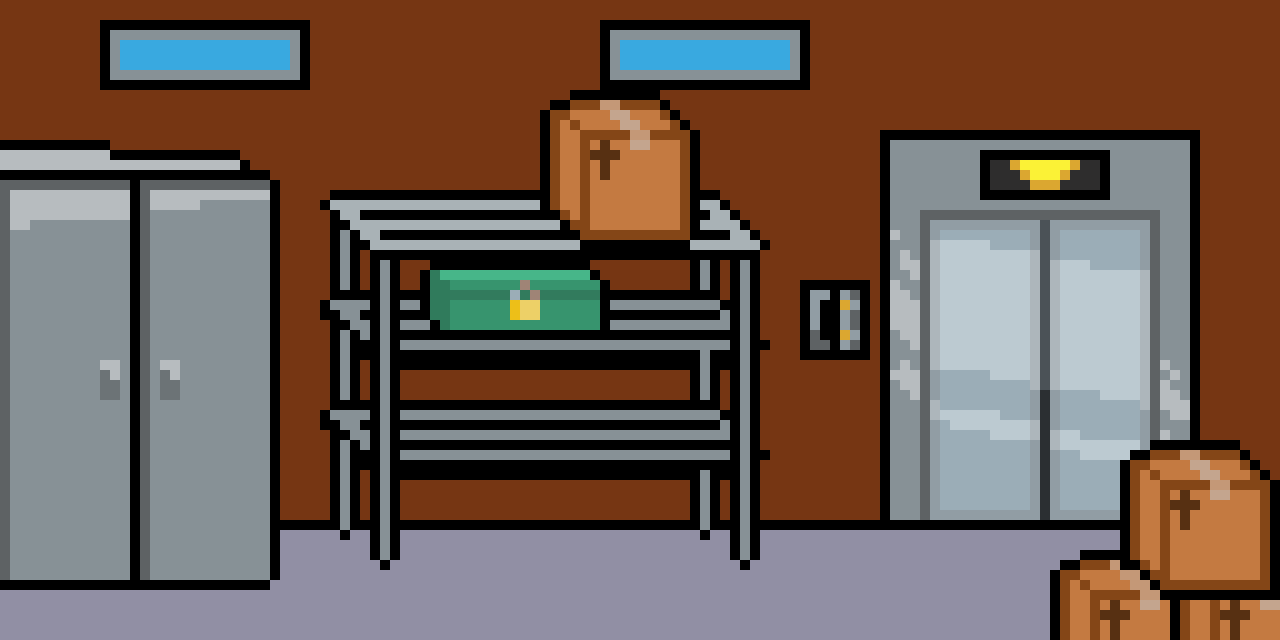
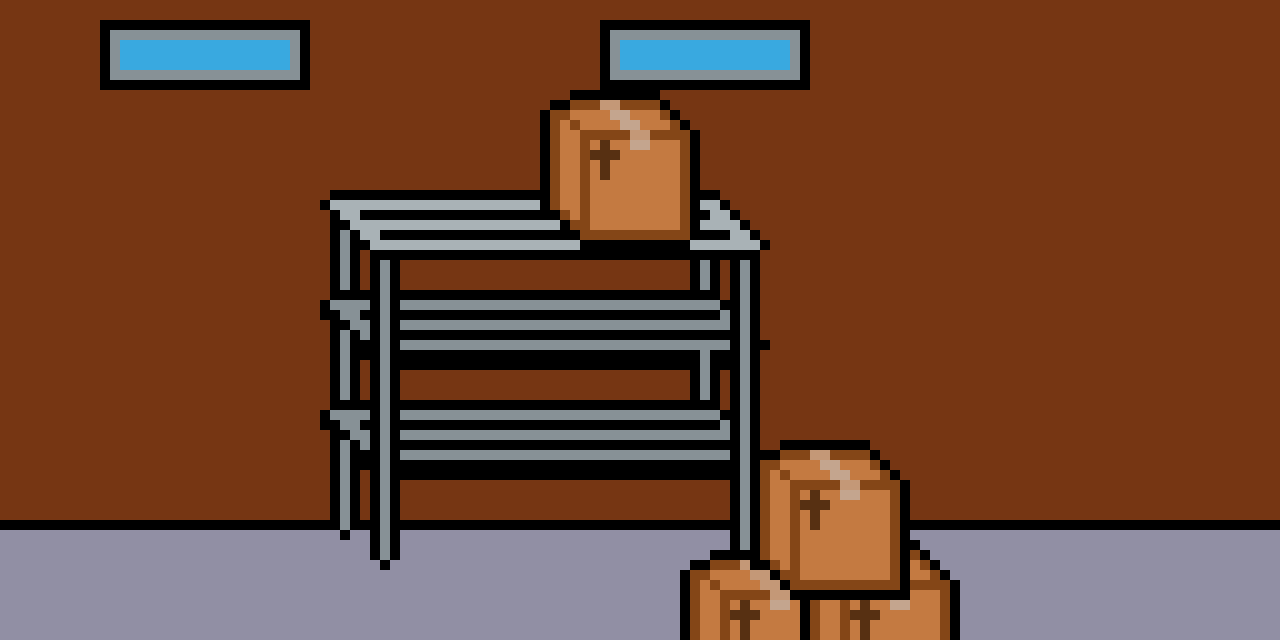
Feat: added all clickItems to the storage and made it fully functional

diff --git a/src/api/src/game-implementation/rooms/StorageRoom.ts b/src/api/src/game-implementation/rooms/StorageRoom.ts
@@ -1,4 +1,4 @@
-import { Arrowroom } from "@shared/types";
+import { Arrowroom, ClickItem } from "@shared/types";
 import { ActionResult } from "../../game-base/actionResults/ActionResult";
 import { TextActionResult } from "../../game-base/actionResults/TextActionResult";
 import { Action } from "../../game-base/actions/Action";
@@ -38,13 +38,13 @@ export class StorageRoom extends Room {
 
     public images(): string[] {
         const result: string[] = ["storage/Storage"];
-        const playerSession: PlayerSession = gameService.getPlayerSession();
-        if (playerSession.playerOpenedCloset) {
-            result.push("storage/Opencloset");
-        }
-        if (playerSession.playerOpenedSteelbox) {
-            result.push("storage/Openbox");
-        }
+        // const playerSession: PlayerSession = gameService.getPlayerSession();
+        // if (playerSession.playerOpenedCloset) {
+        //     result.push("storage/Opencloset");
+        // }
+        // if (playerSession.playerOpenedSteelbox) {
+        //     result.push("storage/Openbox");
+        // }
         return result;
     }
 
@@ -85,6 +85,42 @@ export class StorageRoom extends Room {
         return result;
     }
 
+    public ClickItem(): ClickItem[] {
+        const playerSession: PlayerSession = gameService.getPlayerSession();
+        // Always give 4 paramaters for Click objects: The name (will be displayed), alias,
+        // The imageurl and the types
+
+        // result as an array of ClickItem objects
+        const result: ClickItem[] = [
+            { name: "Keypad", alias: "KeypadItem", imageUrl: "storage/KeyPad", type: ["actionableItemOpen"], imageCoords: { x: 60, y: 45 } },
+            { name: "Elevator", alias: "elevator", imageUrl: "storage/Elevator", type: ["actionableItemOpen"], imageCoords: { x: 65, y: 25 } },
+        ];
+        if (!playerSession.playerOpenedCloset) {
+            result.push({ name: "closet", alias: "closet", imageUrl: "storage/Closet", type: ["actionableItemOpen"], imageCoords: { x: 15, y: 25 } });
+        }
+        if (!playerSession.playerOpenedSteelbox) {
+            result.push({ name: "steel box", alias: "steel box", imageUrl: "storage/Steelbox", type: ["actionableItemOpen"], imageCoords: { x: 38, y: 40 } });
+        }
+        if (playerSession.playerOpenedCloset) {
+            result.push({ name: "closet", alias: "closet", imageUrl: "storage/Opencloset", type: ["actionableItemOpen"], imageCoords: { x: 15, y: 25 } });
+        }
+        if (playerSession.playerOpenedSteelbox) {
+            result.push({ name: "steel box", alias: "steel box", imageUrl: "storage/Openbox", type: ["actionableItemOpen"], imageCoords: { x: 38, y: 40 } });
+        }
+        if (playerSession.playerOpenedCloset) {
+            if (!playerSession.pickedUpKeyCard) {
+                result.push({ name: "KeyCard", alias: "KeyCardItem", imageUrl: "storage/Keycard", type: ["actionableItem"], imageCoords: { x: 23, y: 48 } });
+            }
+        }
+        if (playerSession.playerOpenedSteelbox) {
+            if (!playerSession.pickedUpGlue) {
+                result.push({ name: "Glue", alias: "GlueItem", imageUrl: "storage/GlueItem", type: ["actionableItem"], imageCoords: { x: 50, y: 40 } });
+            }
+        }
+
+        return result;
+    }
+
     public ArrowUrl(): Arrowroom[] {
         // Initialize result as an array of Arrowroom objects
         const result: Arrowroom[] = [
@@ -94,7 +130,7 @@ export class StorageRoom extends Room {
         const playerSession: PlayerSession = gameService.getPlayerSession();
         if (playerSession.playerOpenedElevator) {
             result.push(
-                { name: "Elevator", alias: "labroom", imageRotation: 180, imageCoords: { x: 68, y: 7 } }
+                { name: "Elevator", alias: "labroom", imageRotation: 180, imageCoords: { x: 69, y: 7 } }
             );
         }
 

diff --git a/src/web/src/components/ClickInteractableComponent.ts b/src/web/src/components/ClickInteractableComponent.ts
@@ -191,6 +191,9 @@ export class ClickInteractableComponent extends HTMLElement {
         if (item.type.includes("actionableItem")) {
             ArrayOfActions = ArrayOfActions?.filter(action => action.alias === "examine" || action.alias === "pick-up");
         }
+        if (item.type.includes("actionableItemOpen")) {
+            ArrayOfActions = ArrayOfActions?.filter(action => action.alias === "examine" || action.alias === "open");
+        }
         if (ArrayOfActions) {
             ArrayOfActions.forEach((button: ActionReference) => {
                 const buttonElement: HTMLElement = this.renderActionButton(button, item);
